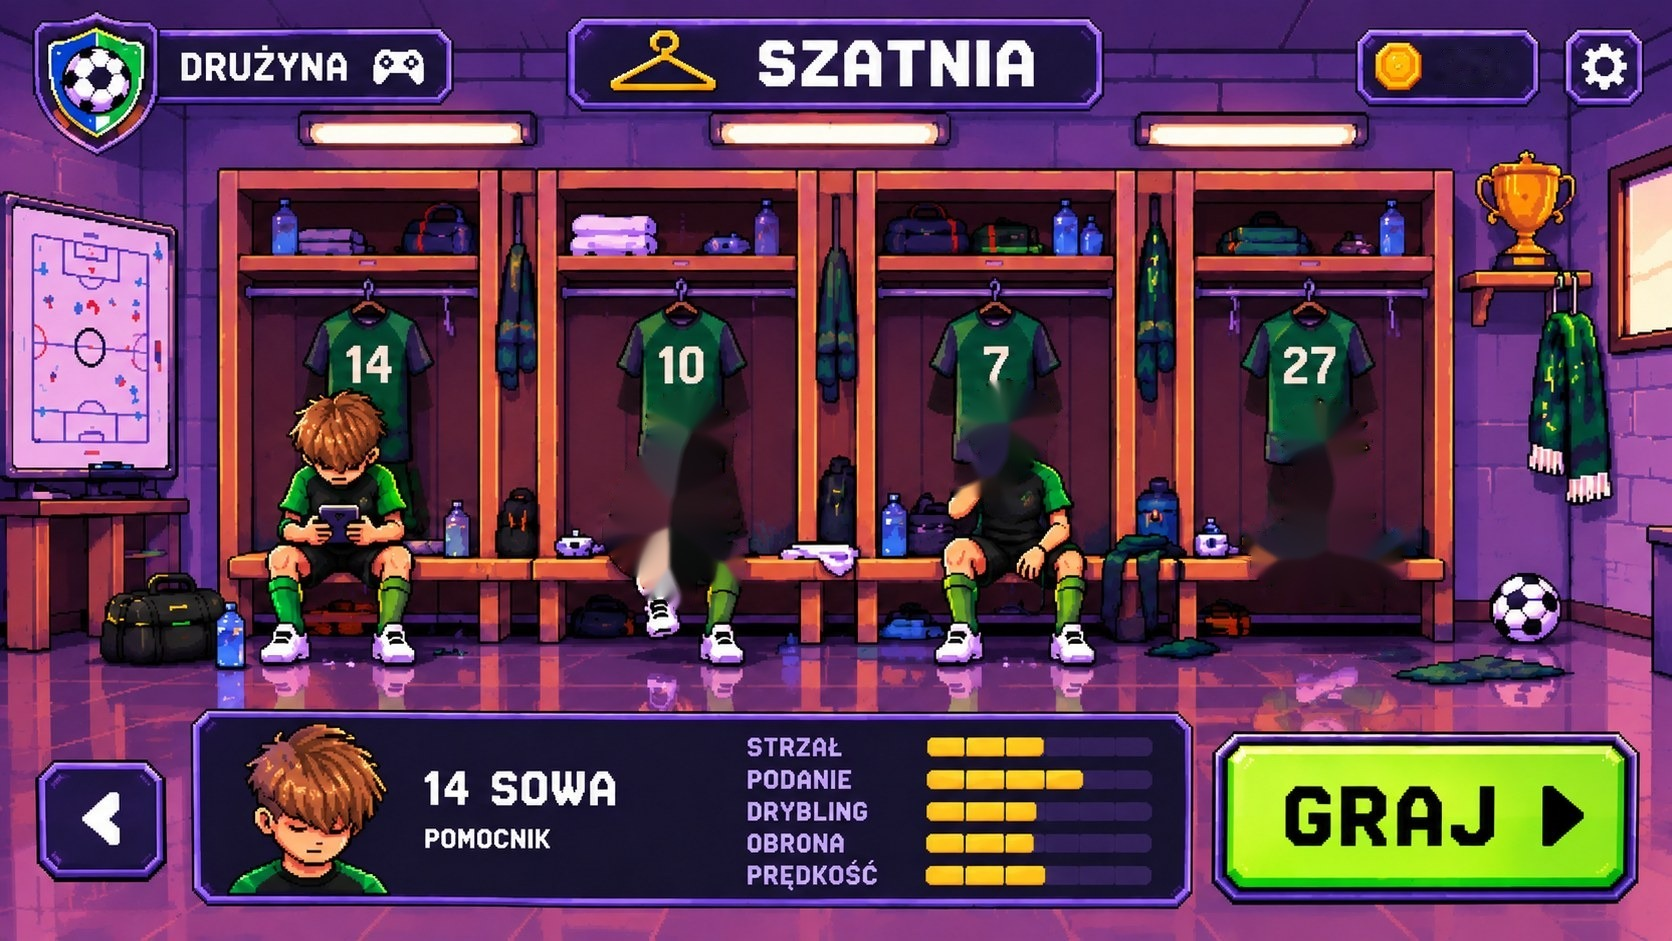
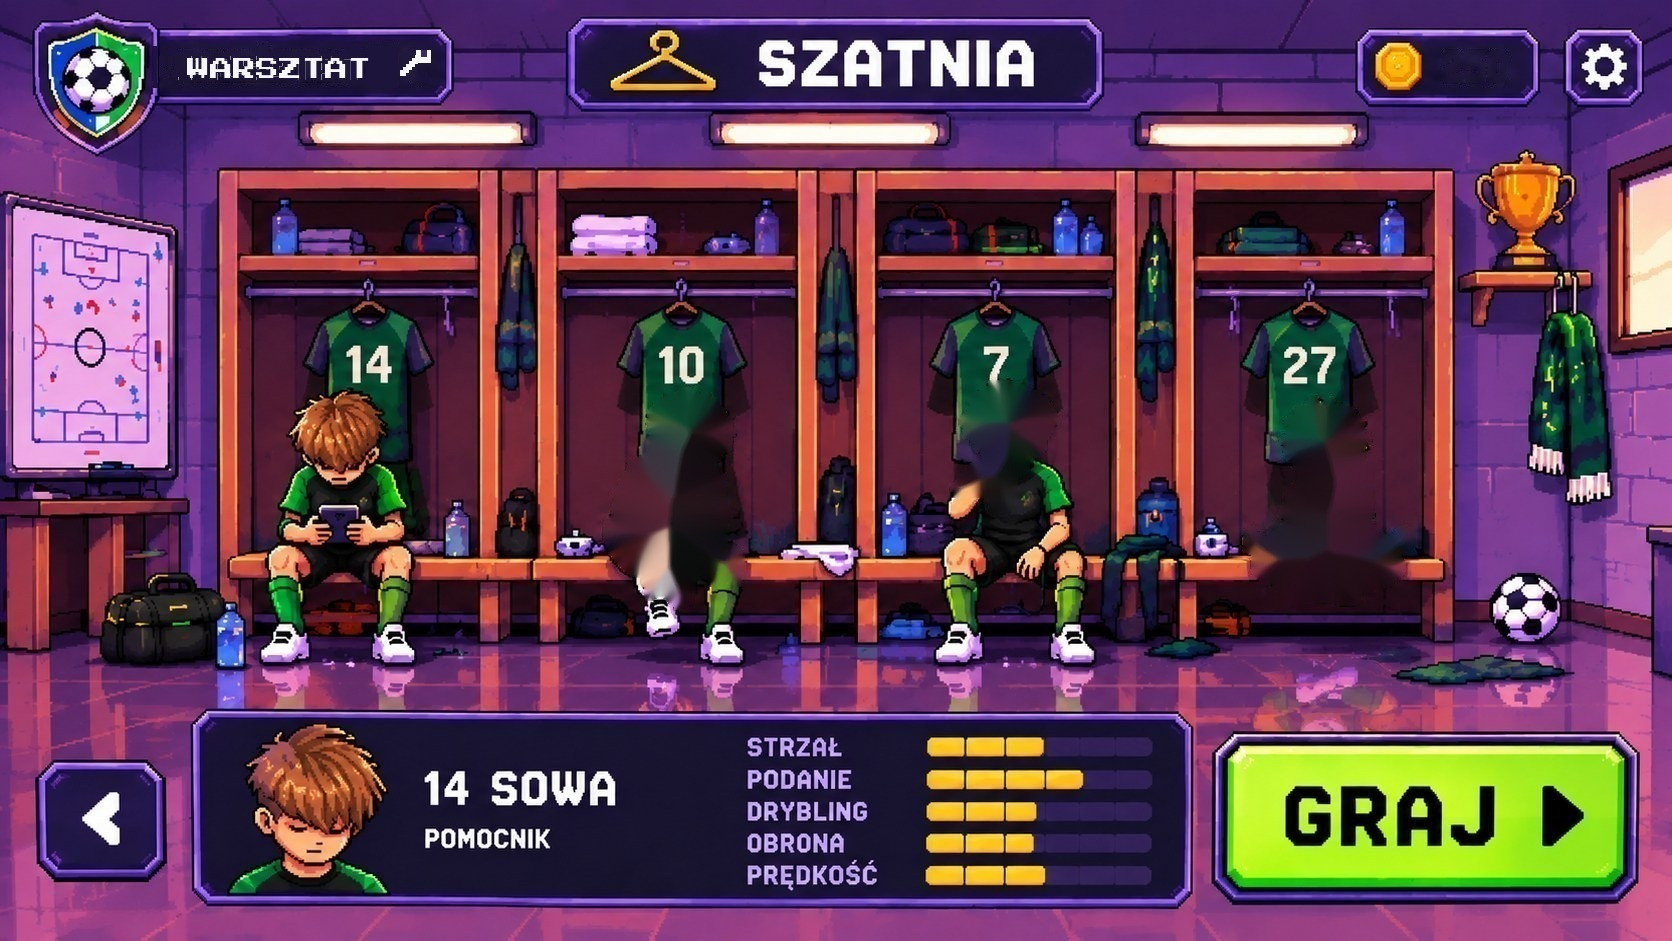
Szatnia: napis WARSZTAT prowadzi do warsztatu; trofea: czerwone boki, wyjście EXIT przy drzwiach
Claude-Session: https://claude.ai/code/session_01Y9XNosS9qXxorLv9Jh2D4n

diff --git a/index.html b/index.html
@@ -384,7 +384,7 @@
   .side90 { display: none; position: absolute; top: 0; bottom: 0; width: calc((100vw - 177.78vh) / 2 + 4px); z-index: 0; pointer-events: none; overflow: hidden;
     background: url(side_a.png) 0 0 / 192px 192px repeat, #ffd21a; image-rendering: pixelated; animation: side90up 8s linear infinite; }
   .side90::after { content: ""; position: absolute; inset: 0; background: url(side_b.png) 0 0 / 192px 192px repeat; image-rendering: pixelated; animation: side90up 8s linear infinite, side90blink .9s steps(1) infinite; }
-  .side90.blue { background-image: url(side_a_blue.png); background-color: #2a8cff; } .side90.blue::after { background-image: url(side_b_blue.png); }
+  .side90.blue { background-image: url(side_a_red.png); background-color: #e8302a; } .side90.blue::after { background-image: url(side_b_blue.png); }
   @media (min-aspect-ratio: 17/9) { #trofea { background: #0a0614; } #trofea .sbg { display: none; } }
   .side90.l { left: 0; border-right: 4px solid #111; } .side90.r { right: 0; border-left: 4px solid #111; background-position: 96px 0; }
   .side90.r::after { animation-delay: 0s, -.45s; }
@@ -447,11 +447,14 @@
   #wpanel .wpal i, #wpanel .wcust { width: 14px; height: 14px; border: 2px solid #000; box-shadow: 0 0 0 1px #5a52a8; cursor: pointer; display: block; } #wpanel .wpal i.on { box-shadow: 0 0 0 2px #ffe14a; }
   #wpanel .wcust { position: relative; overflow: hidden; background-image: linear-gradient(45deg, transparent 40%, rgba(255,255,255,.7) 40% 60%, transparent 60%); } #wpanel .wcust input { position: absolute; inset: 0; opacity: 0; cursor: pointer; }
   #wpanel .wstat { display: grid; grid-template-columns: 1fr auto; gap: 2px 6px; } #wpanel .wstat b { color: #6ee05a; font-weight: 400; } #wpanel .whint { margin: 5px 0; font: 400 10px "Pixelify Sans", monospace; color: #b8b4e8; }
+  #trofea .texit { position: absolute; left: 90.6%; top: 38%; width: 8.6%; padding: 0; background: none; border: 0; cursor: pointer; display: flex; flex-direction: column; align-items: center; gap: 4px; animation: tarr 0.9s steps(2) infinite; --dx: 4px; }
+  #trofea .texit[hidden] { display: none; } #trofea .texit b { font: 400 clamp(7px, 1.2vw, 13px) "Press Start 2P", monospace; color: #fff; background: #c81e1e; border: 3px solid #fff; padding: 4px 6px; box-shadow: 0 3px 0 #000; }
+  #trofea .texit i { display: block; width: 80%; aspect-ratio: 133 / 122; background: url(arrow_r.png?v=1) center / 100% 100% no-repeat; image-rendering: pixelated; filter: drop-shadow(0 4px 0 rgba(0,0,0,.5)); }
   #trofea .tback { position: absolute; left: 1.5%; top: 2.5%; padding: 8px 12px; font: 10px "Press Start 2P", monospace; color: #fff; background: #1a1540; border: 3px solid #7a6ad8; cursor: pointer; }
   #trofea .tcount { position: absolute; right: 2%; top: 3%; padding: 8px 12px; font: 10px "Press Start 2P", monospace; color: #ffe14a; background: rgba(0,0,0,.7); }
   #trofea .tinfo { position: absolute; left: 50%; bottom: 3%; transform: translateX(-50%); min-width: 40%; padding: 8px 14px; text-align: center; font: 9px "Press Start 2P", monospace; line-height: 1.7; color: #fff; background: rgba(10,8,24,.9); border: 3px solid #ffe14a; }
   #trofea .tinfo[hidden] { display: none; } #trofea .tinfo b { color: #ffe14a; font-weight: 400; }
-  #sworks { left: 1.8%; top: 3%; width: auto; height: auto; padding: 6px 10px; font: clamp(7px,1.1vw,12px) "Press Start 2P", monospace; color: #1a1030 !important; background: #ffe14a !important; border: 3px solid #fff6c0 !important; box-shadow: 0 4px 0 #b08a00; }
+  #sworks { left: 9.4%; top: 2.6%; width: 17.6%; height: 5.8%; font-size: 0; color: transparent; }
   #strophy { left: 86.5%; top: 14%; width: 9%; height: 15%; }
   #szatnia .hot { position: absolute; background: transparent; border: 0; cursor: pointer; }
   #szatnia .hot:hover, #szatnia .hot:focus-visible { outline: 3px solid #ffe14a; border-radius: 10px; }
@@ -549,7 +552,7 @@
 <div id="trofea" hidden><div class="side90 l blue"></div><div class="side90 r blue"></div><div class="sbg"></div><div class="tbox"><img src="trofea_bg.jpg?v=3" alt=""><div id="tslots"></div>
   <div class="lamp a" style="left:19.6%;width:13%"></div><div class="lamp b" style="left:43%;width:13.5%"></div><div class="lamp c" style="left:67.5%;width:13%"></div>
   <button class="tarrow l" id="tleft" aria-label="W lewo">◀</button><button class="tarrow r" id="tright" aria-label="W prawo" hidden>▶</button>
-  <button class="tback" id="tback">◀ WRÓĆ</button><div class="tcount" id="tcount"></div><div class="tinfo" id="tinfo" hidden></div></div></div>
+  <button class="texit" id="texit" aria-label="Exit"><b>EXIT</b><i></i></button><button class="tback" id="tback" hidden>◀ WRÓĆ</button><div class="tcount" id="tcount"></div><div class="tinfo" id="tinfo" hidden></div></div></div>
 <div id="warsztat" hidden><div class="wbox">
   <div id="wroom"><img src="warsztat_room.jpg?v=1" alt=""><div class="lamp" style="left:48%;top:3%;width:20%;height:11%"></div><button id="wtable" aria-label="But"></button><button class="wbtn" id="wgo">▶ EDYTUJ BUTA</button></div>
   <div id="wedit" hidden><img id="wbg" src="warsztat_side.jpg?v=1" alt=""><div class="lamp" style="left:30%;top:0;width:39%;height:12%"></div><canvas id="wcv" class="side"></canvas>
@@ -585,7 +588,7 @@
 <div class="ov" id="end" hidden><div class="panel"><h1 id="endT">KONIEC</h1><div id="final">0 : 0</div><div id="reward"></div><div class="row"><button class="btn" id="again">REWANŻ</button><button class="btn" id="tnext" hidden>DALEJ</button><button class="btn" id="tmenu">BOISKA</button></div></div></div>
 <div id="penHint"></div>
 <div id="bag" class="hud"></div>
-<div id="szatnia" hidden><div class="side90 l"></div><div class="side90 r"></div><div class="sbg"></div><div class="sbox"><img src="szatnia_base.jpg" alt="">
+<div id="szatnia" hidden><div class="side90 l"></div><div class="side90 r"></div><div class="sbg"></div><div class="sbox"><img src="szatnia_base.jpg?v=2" alt="">
   <div class="sanim" aria-hidden="true"><div class="lamp a" style="left:18.541%;top:12.965%;width:12.739%;height:2.657%"><i></i></div><div class="lamp b" style="left:43.182%;top:12.965%;width:12.799%;height:2.657%"><i></i></div><div class="lamp c" style="left:68.600%;top:13.177%;width:12.380%;height:2.550%"><i></i></div><div class="lev" style="left:74.522%;top:42.402%;width:9.988%;height:21.679%"><div class="aura"></div><div class="orb back"><i style="--a:0deg;--d:0.00s;--r:52%"></i><i style="--a:45deg;--d:-0.37s;--r:60%"></i><i style="--a:90deg;--d:-0.74s;--r:68%"></i><i style="--a:135deg;--d:-1.11s;--r:52%"></i><i style="--a:180deg;--d:-1.48s;--r:60%"></i><i style="--a:225deg;--d:-1.85s;--r:68%"></i><i style="--a:270deg;--d:-2.22s;--r:52%"></i><i style="--a:315deg;--d:-2.59s;--r:60%"></i></div><img src="kid27.png" alt=""><div class="orb front"><i style="--a:0deg;--d:0.00s;--r:52%"></i><i style="--a:45deg;--d:-0.37s;--r:60%"></i><i style="--a:90deg;--d:-0.74s;--r:68%"></i><i style="--a:135deg;--d:-1.11s;--r:52%"></i><i style="--a:180deg;--d:-1.48s;--r:60%"></i><i style="--a:225deg;--d:-1.85s;--r:68%"></i><i style="--a:270deg;--d:-2.22s;--r:52%"></i><i style="--a:315deg;--d:-2.59s;--r:60%"></i></div></div><img class="tie" src="kid10.png" alt="" style="left:36.244%;top:41.445%;width:8.134%;height:23.061%"><img class="sip" src="kid7h.png" alt="" style="left:56.998%;top:40.701%;width:6.220%;height:13.603%"><div class="phone" style="left:19.258%;top:53.879%;width:2.093%;height:1.913%"></div></div>
   <div class="kid" data-i="0" style="left:14.5%;width:12.5%"></div><div class="kid" data-i="1" style="left:34.5%;width:12.5%"></div>
   <div class="kid" data-i="2" style="left:54.5%;width:12.5%"></div><div class="kid" data-i="3" style="left:73.5%;width:12.5%"></div>
@@ -594,7 +597,7 @@
   <button class="hot" id="sback" style="left:1.8%;top:81%;width:8%;height:13%" aria-label="Wróć"></button>
   <button class="hot" id="sgo" style="left:72.6%;top:78%;width:25.6%;height:17.5%" aria-label="Graj"></button>
   <button class="hot" id="sset" aria-label="Ustawienia"></button>
-  <div class="stitle">WYBIERZ KAPITANA</div><div class="scoin" id="coinL">0</div><button class="hot" id="sworks" aria-label="Warsztat">WARSZTAT</button><button class="hot" id="strophy" aria-label="Trofea"></button></div></div>
+  <div class="stitle">WYBIERZ KAPITANA</div><div class="scoin" id="coinL">0</div><button class="hot" id="sworks" aria-label="Warsztat"></button><button class="hot" id="strophy" aria-label="Trofea"></button></div></div>
 <div id="modes" hidden><div class="side90 l"></div><div class="side90 r"></div><div class="sbg tb"></div><div class="tbox2"><img src="tablica.jpg" alt=""><button class="hbottle" id="hbottle" aria-label="Butelka"><img src="flip_woda.png" alt=""></button>
   <small id="mq">CO ROBIMY?</small>
   <div class="mrow"><button class="mb" data-m="match"><b><img class="pxi" src="ico_match.png" alt=""></b>MECZ<em>Pixels kontra Fioletowi</em></button><button class="mb" data-m="karne"><b><img class="pxi" src="ico_karne.png" alt=""></b>KARNE<em>seria rzutów karnych</em></button><button class="mb" data-m="kapki"><b><img class="pxi" src="ico_kapki.png" alt=""></b>KAPKI<em>dotykaj kółek, żongluj piłką</em></button><button class="mb" data-m="but"><b><img class="pxi" src="ico_but.png" alt=""></b>BUT<em>zawiąż sznurówki</em></button><button class="mb" data-m="kapsle"><b><img class="pxi" src="ico_kapsle.png" alt=""></b>KAPSLE<em>wyścig kapsli po torze</em></button><button class="mb" data-m="bieg"><b><img class="pxi" src="ico_bieg.png" alt=""></b>BIEG<em>wyścig dookoła boiska</em></button></div>
@@ -903,7 +906,7 @@
     C2.forEach(([i, pl, en, hp, he, ok], k) => T.push({ i, n: L(pl, en), how: L(hp, he), ok, s: k, room: 1 }));
     let room = 0;
     const draw = (fresh = []) => { const P = PROG.get(), box = $('tslots'); box.innerHTML = ''; let n = 0;
-      $('tleft').hidden = room !== 0; $('tright').hidden = room !== 1; const bi = document.querySelector('#trofea .tbox > img'); const en = window.LANG === 'en' ? '_en' : ''; bi.src = room ? `trofea_bg2${en}.jpg?v=1` : `trofea_bg${en}.jpg?v=3`;
+      $('tleft').hidden = room !== 0; $('tright').hidden = room !== 1; $('texit').hidden = room !== 0; const bi = document.querySelector('#trofea .tbox > img'); const en = window.LANG === 'en' ? '_en' : ''; bi.src = room ? `trofea_bg2${en}.jpg?v=1` : `trofea_bg${en}.jpg?v=3`;
       for (const t of T) { if (t.room !== room) { n += !!t.ok(P); continue; } const [x, y, w, h] = TSLOT[t.s], got = !!t.ok(P); n += got; const d = document.createElement('div'); d.className = 'tro' + (got ? '' : ' off') + (fresh.includes(t.i) ? ' new' : '');
         d.style.cssText = `left:${x}%;top:${y}%;width:${w}%;height:${h}%`; d.innerHTML = `<i style="background-position:${t.i / 49 * 100}% 0"></i>`;
         d.onclick = () => { const e = $('tinfo'); e.innerHTML = `<b>${got ? t.n : '???'}</b><br>${t.how}${got ? '<br>✔ ' + L('ZDOBYTE', 'WON') : ''}`; e.hidden = false; }; box.appendChild(d); }
@@ -913,7 +916,7 @@
       for (const t of fresh) P.tro.push(t.i); PROG.save(); setTimeout(() => toast(L('NOWE TROFEUM!', 'NEW TROPHY!') + '\n' + fresh.map((t) => t.n).join('\n')), 2800); return fresh.map((t) => t.i); };
     $('tleft').onclick = () => { room = 1; draw(); $('tinfo').hidden = true; }; $('tright').onclick = () => { room = 0; draw(); $('tinfo').hidden = true; };
     const open = () => { room = 0; const fresh = check(); draw(fresh); $('tinfo').hidden = true; $('trofea').hidden = false; };
-    $('tback').onclick = () => { $('trofea').hidden = true; }; $('tslots').addEventListener('click', (e) => e.stopPropagation());
+    $('tback').onclick = $('texit').onclick = () => { $('trofea').hidden = true; }; $('tslots').addEventListener('click', (e) => e.stopPropagation());
     return { open, check }; })();
   $('strophy').onclick = () => TRO.open(); $('wsbtn').onclick = () => window.WARSZTAT?.open(); $('sworks').onclick = () => window.WARSZTAT?.open(); $('trobtn').onclick = () => TRO.open();
   window.KAPKI_COINS = (n) => { const c = Math.floor(n / 5); if (c > 0) PROG.add(c); return c; };

diff --git a/lang.js b/lang.js
@@ -128,7 +128,7 @@
   const C = CanvasRenderingContext2D.prototype;
   for (const k of ['fillText', 'strokeText', 'measureText']) { const f = C[k]; C[k] = function (s, ...a) { return f.call(this, tr(String(s)), ...a); }; }
   // pictures with Polish words on them
-  const IMG = { 'tablica.jpg': 'tablica_en.jpg', 'szatnia_base.jpg': 'szatnia_base_en.jpg' };
+  const IMG = { 'tablica.jpg': 'tablica_en.jpg', 'szatnia_base.jpg?v=2': 'szatnia_base_en.jpg?v=2', 'szatnia_base.jpg': 'szatnia_base_en.jpg?v=2' };
   const css = document.createElement('style'); css.textContent = '#modes .sbg.tb { background-image: url(tablica_en.jpg) !important; } #trofea .sbg { background-image: url(trofea_bg_en.jpg?v=3) !important; }'; document.head.appendChild(css);
   // page text: translated as it appears and every time it changes
   const fix = (n) => {
